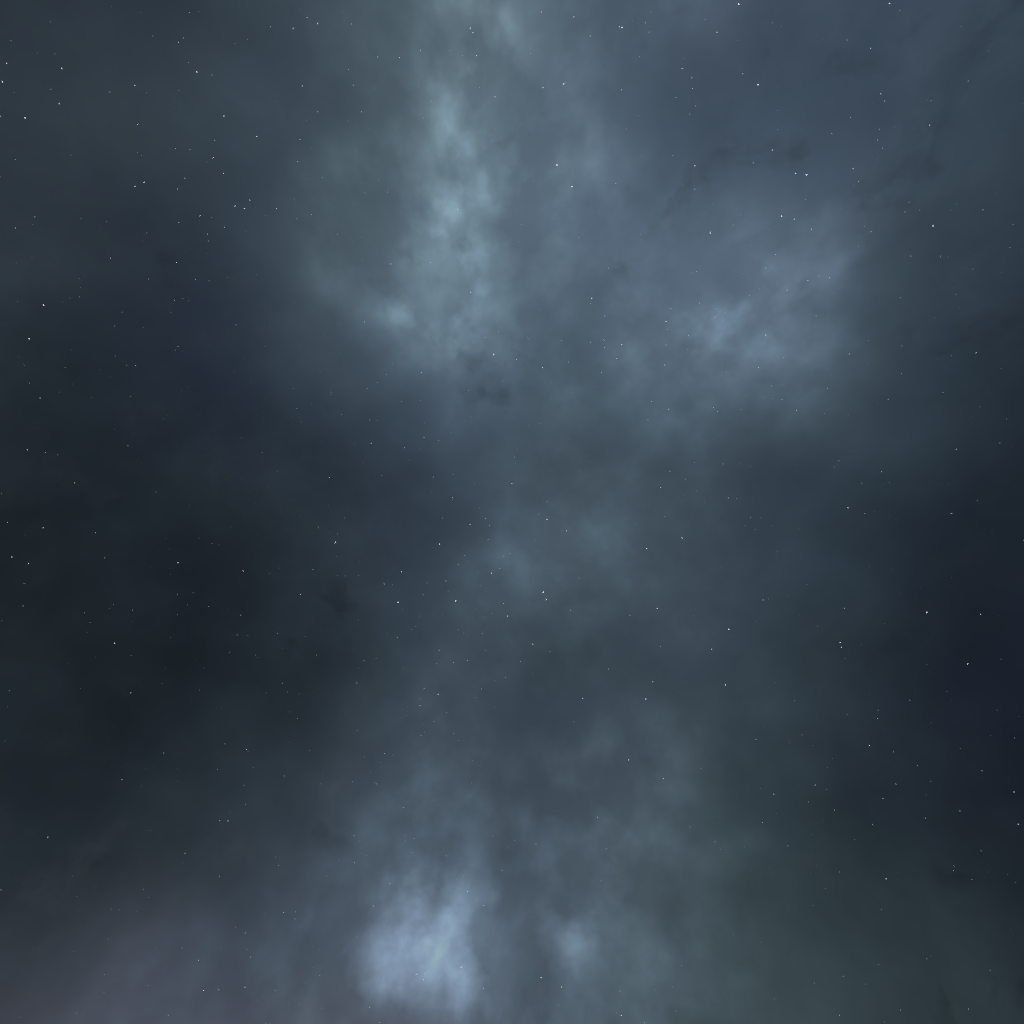
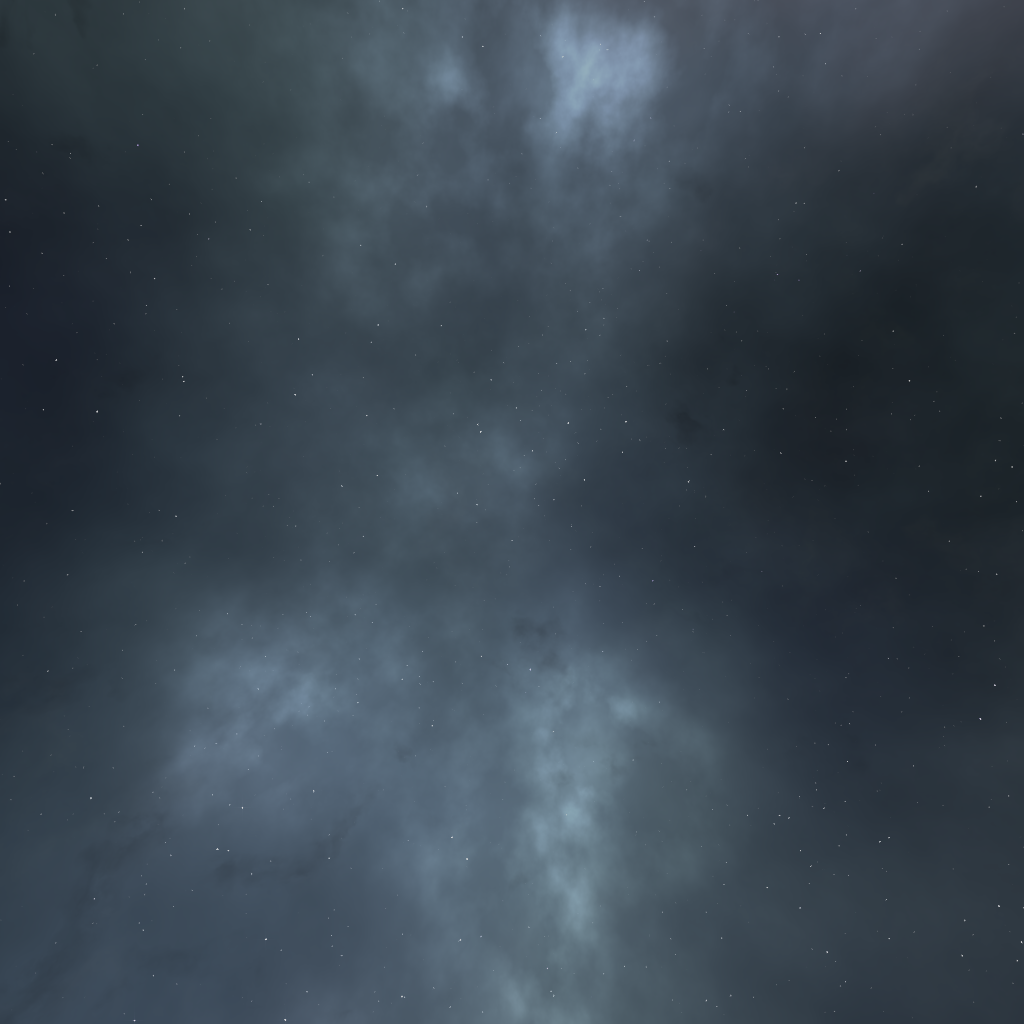
enviroment bug fixed

diff --git a/AsteroidSimulation/AsteroidSimulation.cpp b/AsteroidSimulation/AsteroidSimulation.cpp
@@ -32,6 +32,8 @@ float toRadians(float degrees);
 // space skybox enviroment
 cy::GLSLProgram skyboxProgram;
 
+cy::TriMesh skyboxMesh;
+
 GLuint skyboxTexture;
 GLuint skyboxVAO;
 GLuint skyboxVBO;
@@ -45,56 +47,7 @@ std::vector<unsigned char> spaceFace4;
 std::vector<unsigned char> spaceFace5;
 std::vector<unsigned char> spaceFace6;
 
-float skyboxVertices[] = {
-	// Back face
-	-10.0f, -10.0f, -10.0f,
-	 10.0f, -10.0f, -10.0f,
-	 10.0f,  10.0f, -10.0f,
-	 10.0f,  10.0f, -10.0f,
-	-10.0f,  10.0f, -10.0f,
-	-10.0f, -10.0f, -10.0f,
-
-	// Front face
-	-10.0f, -10.0f,  10.0f,
-	 10.0f, -10.0f,  10.0f,
-	 10.0f,  10.0f,  10.0f,
-	 10.0f,  10.0f,  10.0f,
-	-10.0f,  10.0f,  10.0f,
-	-10.0f, -10.0f,  10.0f,
-
-	// Left face
-	-10.0f,  10.0f,  10.0f,
-	-10.0f,  10.0f, -10.0f,
-	-10.0f, -10.0f, -10.0f,
-	-10.0f, -10.0f, -10.0f,
-	-10.0f, -10.0f,  10.0f,
-	-10.0f,  10.0f,  10.0f,
-
-	// Right face
-	10.0f,  10.0f,  10.0f,
-	10.0f,  10.0f, -10.0f,
-	10.0f, -10.0f, -10.0f,
-	10.0f, -10.0f, -10.0f,
-	10.0f, -10.0f,  10.0f,
-	10.0f,  10.0f,  10.0f,
-
-	// Bottom face
-	-10.0f, -10.0f, -10.0f,
-	 10.0f, -10.0f, -10.0f,
-	 10.0f, -10.0f,  10.0f,
-	 10.0f, -10.0f,  10.0f,
-	-10.0f, -10.0f,  10.0f,
-	-10.0f, -10.0f, -10.0f,
-
-	// Top face
-	-10.0f,  10.0f, -10.0f,
-	 10.0f,  10.0f, -10.0f,
-	 10.0f,  10.0f, 10.0f,
-	 10.0f, 10.0f, 10.0f,
-	 10.0f, 10.0f, 10.0f,
-	-10.0f, 10.0f, 10.0f,
-	-10.0f, 10.0f, -10.0f,
-};
+std::vector<cy::Vec3f> skyboxVertices;
 
 float windowWidth = 1024;
 float windowHeight = 800;
@@ -258,11 +211,11 @@ GLuint loadSkybox()
 	if (err4) {
 		std::cout << "Error loading down space PNG." << std::endl;
 	}
-	unsigned err5 = lodepng::decode(spaceFace5, spaceTexWidth, spaceTexHeight, "spaceBack.PNG");
+	unsigned err5 = lodepng::decode(spaceFace5, spaceTexWidth, spaceTexHeight, "spaceFront.PNG");
 	if (err5) {
 		std::cout << "Error loading back space PNG." << std::endl;
 	}
-	unsigned err6 = lodepng::decode(spaceFace6, spaceTexWidth, spaceTexHeight, "spaceFront.PNG");
+	unsigned err6 = lodepng::decode(spaceFace6, spaceTexWidth, spaceTexHeight, "spaceBack.PNG");
 	if (err6) {
 		std::cout << "Error loading front space PNG." << std::endl;
 	}
@@ -280,18 +233,28 @@ GLuint loadSkybox()
 	glTexParameteri(GL_TEXTURE_CUBE_MAP, GL_TEXTURE_WRAP_T, GL_CLAMP_TO_EDGE);
 	glTexParameteri(GL_TEXTURE_CUBE_MAP, GL_TEXTURE_WRAP_R, GL_CLAMP_TO_EDGE);
 
+	skyboxMesh.LoadFromFileObj("cube.obj");
+	skyboxMesh.ComputeNormals();
+
+	for (int i = 0; i < skyboxMesh.NF(); i++) {
+		skyboxVertices.push_back(skyboxMesh.V(skyboxMesh.F(i).v[0])); //store vertex 1
+		skyboxVertices.push_back(skyboxMesh.V(skyboxMesh.F(i).v[1])); //store vertex 2
+		skyboxVertices.push_back(skyboxMesh.V(skyboxMesh.F(i).v[2])); //store vertex 3
+	}
+
 	glGenVertexArrays(1, &skyboxVAO);
 	glBindVertexArray(skyboxVAO);
 
 	glGenBuffers(1, &skyboxVBO);
 	glBindBuffer(GL_ARRAY_BUFFER, skyboxVBO);
-	glBufferData(GL_ARRAY_BUFFER, sizeof(skyboxVertices), &skyboxVertices, GL_STATIC_DRAW);
+	glBufferData(GL_ARRAY_BUFFER, sizeof(cy::Vec3f) * skyboxVertices.size(), &skyboxVertices[0], GL_STATIC_DRAW);
 
 	buildSkyboxShaders();
 
 	GLuint skyboxPos = glGetAttribLocation(skyboxProgram.GetID(), "pos");
 	glEnableVertexAttribArray(skyboxPos);
-	glVertexAttribPointer(0, 3, GL_FLOAT, GL_FALSE, 3 * sizeof(float), (void*)0);
+	glBindBuffer(GL_ARRAY_BUFFER, skyboxVBO);
+	glVertexAttribPointer(skyboxPos, 3, GL_FLOAT, GL_FALSE, 0, (GLvoid*)0);
 
 	return textureID;
 }
